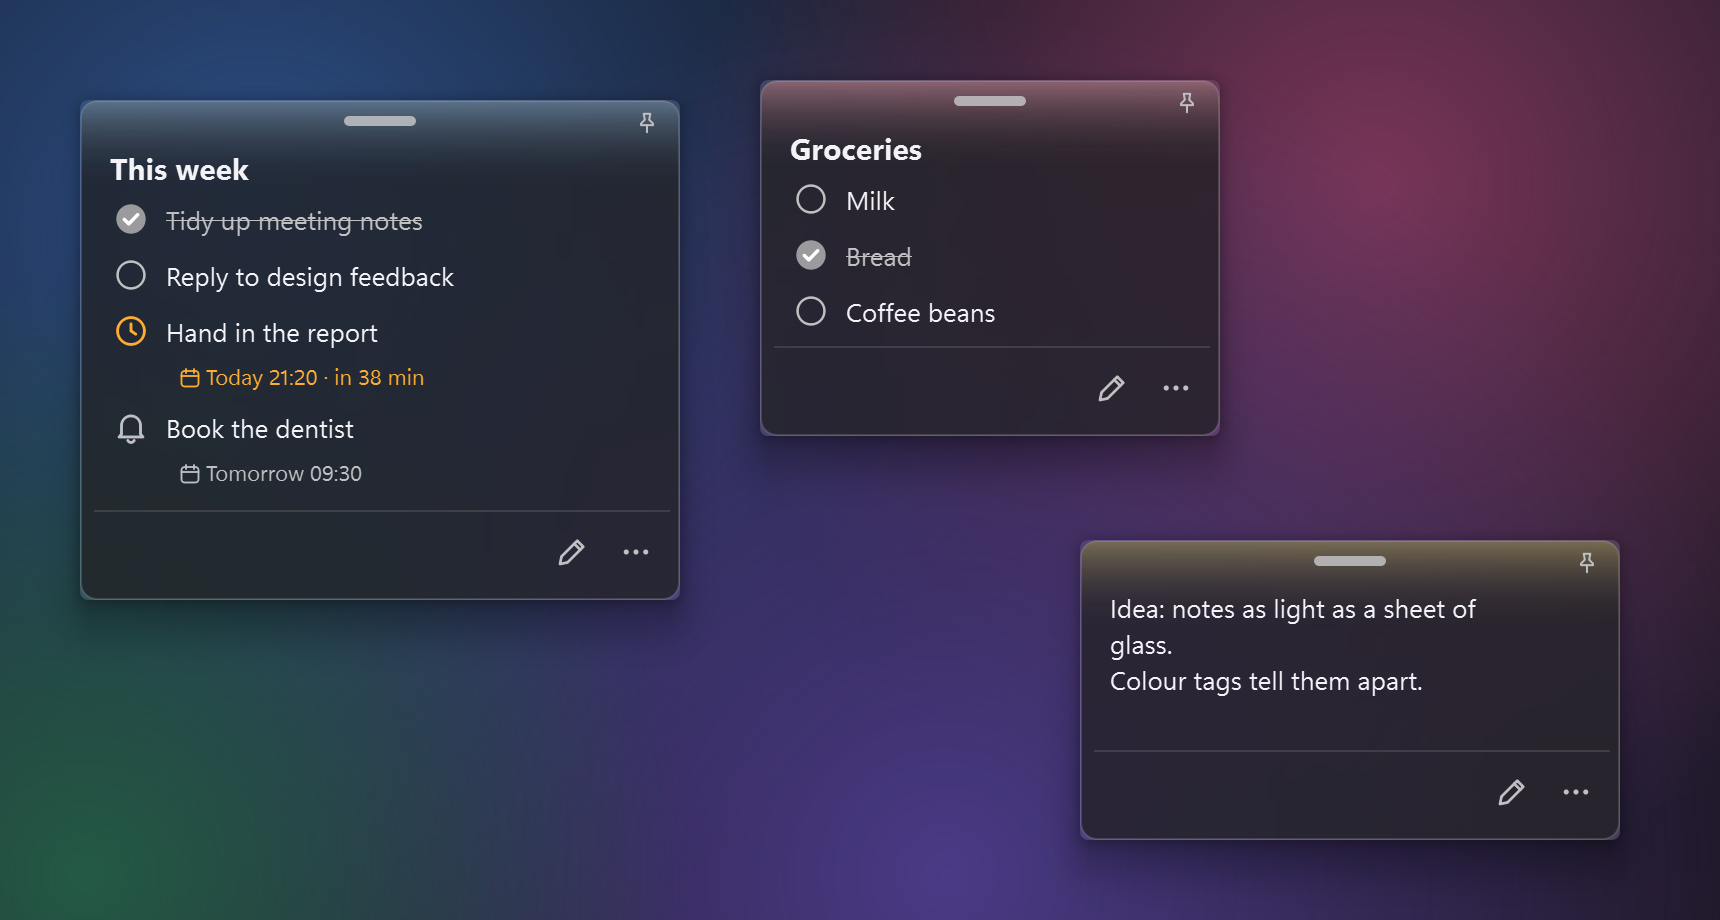
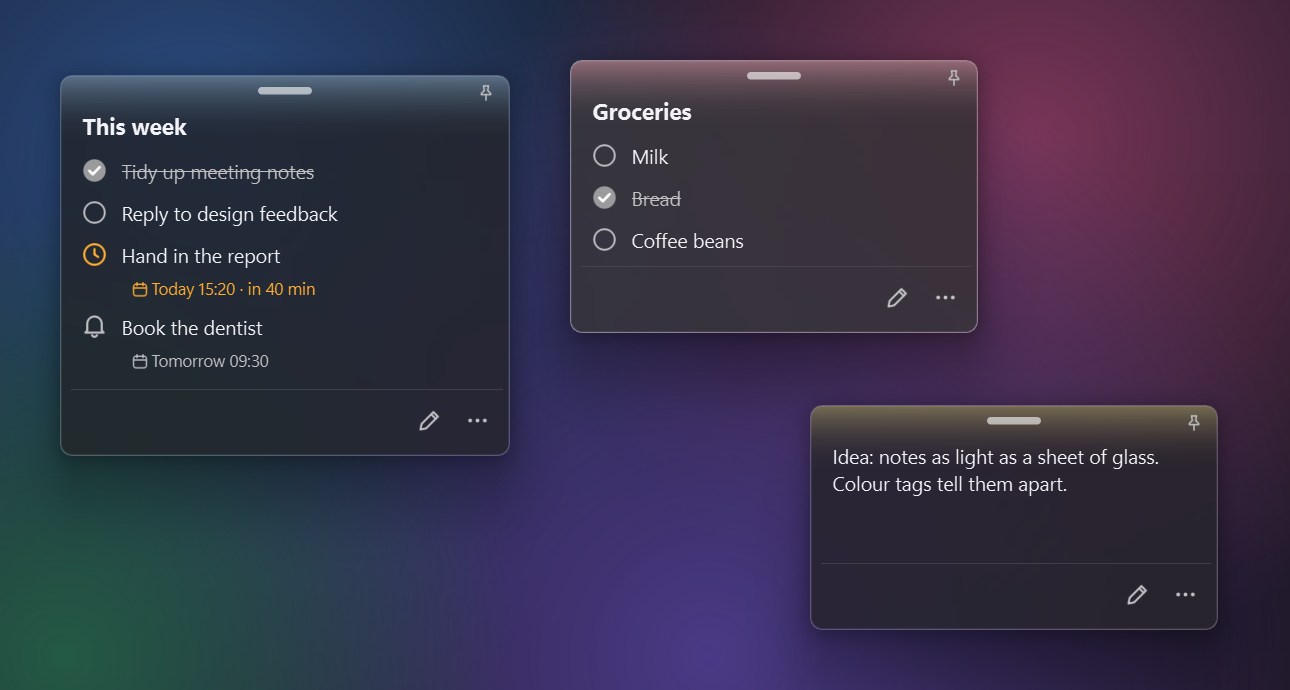
docs: update the README screenshots

diff --git a/tools/screenshot.py b/tools/screenshot.py
@@ -1,8 +1,9 @@
 """Takes the README screenshots: a few sample notes on a soft wallpaper, light and dark.
 
 The notes are real app windows over a stand-in wallpaper, captured from the screen, so the
-frosted glass shows as it does on a desktop. Images go to docs/; for sharp images on high-DPI
-screens, set QT_SCALE_FACTOR=2 first.
+frosted glass shows as it does on a desktop. The scene is placed on the monitor with the highest
+Windows display scaling, which sets the images' resolution (1.5x the logical size at 150 %).
+Images go to docs/.
 
     python tools/screenshot.py                    # -> docs/screenshot-light.png, -dark.png
     python tools/screenshot.py --language zh
@@ -17,7 +18,7 @@ from pathlib import Path
 sys.path.insert(0, str(Path(__file__).resolve().parent))
 import _harness as H  # noqa: E402
 from PySide6.QtCore import QPointF, QRect, Qt  # noqa: E402
-from PySide6.QtGui import QColor, QLinearGradient, QPainter, QRadialGradient  # noqa: E402
+from PySide6.QtGui import QColor, QGuiApplication, QLinearGradient, QPainter, QRadialGradient  # noqa: E402
 from PySide6.QtWidgets import QWidget  # noqa: E402
 
 DOCS = H.REPO / "docs"
@@ -86,12 +87,14 @@ def main() -> int:
     ap.add_argument("--language", choices=("en", "zh"), default="en")
     args = ap.parse_args()
     H.qapp()
-    scene = QRect(200, 140, SCENE_W, SCENE_H)
+    screen = max(QGuiApplication.screens(), key=lambda s: s.devicePixelRatio())
+    centre = screen.availableGeometry().center()
+    scene = QRect(centre.x() - SCENE_W // 2, centre.y() - SCENE_H // 2, SCENE_W, SCENE_H)
     wall = Wallpaper()  # Created first, so the pinned notes open above it.
     wall.setGeometry(scene)
     wall.show()
     x0, y0 = scene.x(), scene.y()
-    layout = [(x0 + 40, y0 + 50, 300, 250), (x0 + 380, y0 + 40, 230, 178), (x0 + 540, y0 + 270, 270, 112)]
+    layout = [(x0 + 40, y0 + 50, 300, 254), (x0 + 380, y0 + 40, 272, 182), (x0 + 540, y0 + 270, 272, 112)]
     notes = [H.note(x, y, w, h, title, items, tint=tint)
              for (x, y, w, h), (title, tint, items) in zip(layout, content(args.language))]
     app = H.start_app(notes, theme="light", language=args.language)

diff --git a/tools/README.md b/tools/README.md
@@ -11,7 +11,7 @@ Images go to `tools/out/`.
 | `contrast_probe.py` | Real glass backgrounds over black/white/striped desktops, in the format `tests/test_contrast.py` uses |
 | `render_sheet.py` | Contact sheet: light/dark × English/Chinese × every text size |
 | `startup_perf.py` | Startup time, memory, idle CPU |
-| `screenshot.py` | README screenshots in `docs/`, light and dark (run with `QT_SCALE_FACTOR=2`) |
+| `screenshot.py` | README screenshots in `docs/`, light and dark, on the monitor with the highest display scaling |
 
 ```powershell
 .\.venv\Scripts\python tools\align_audit.py
